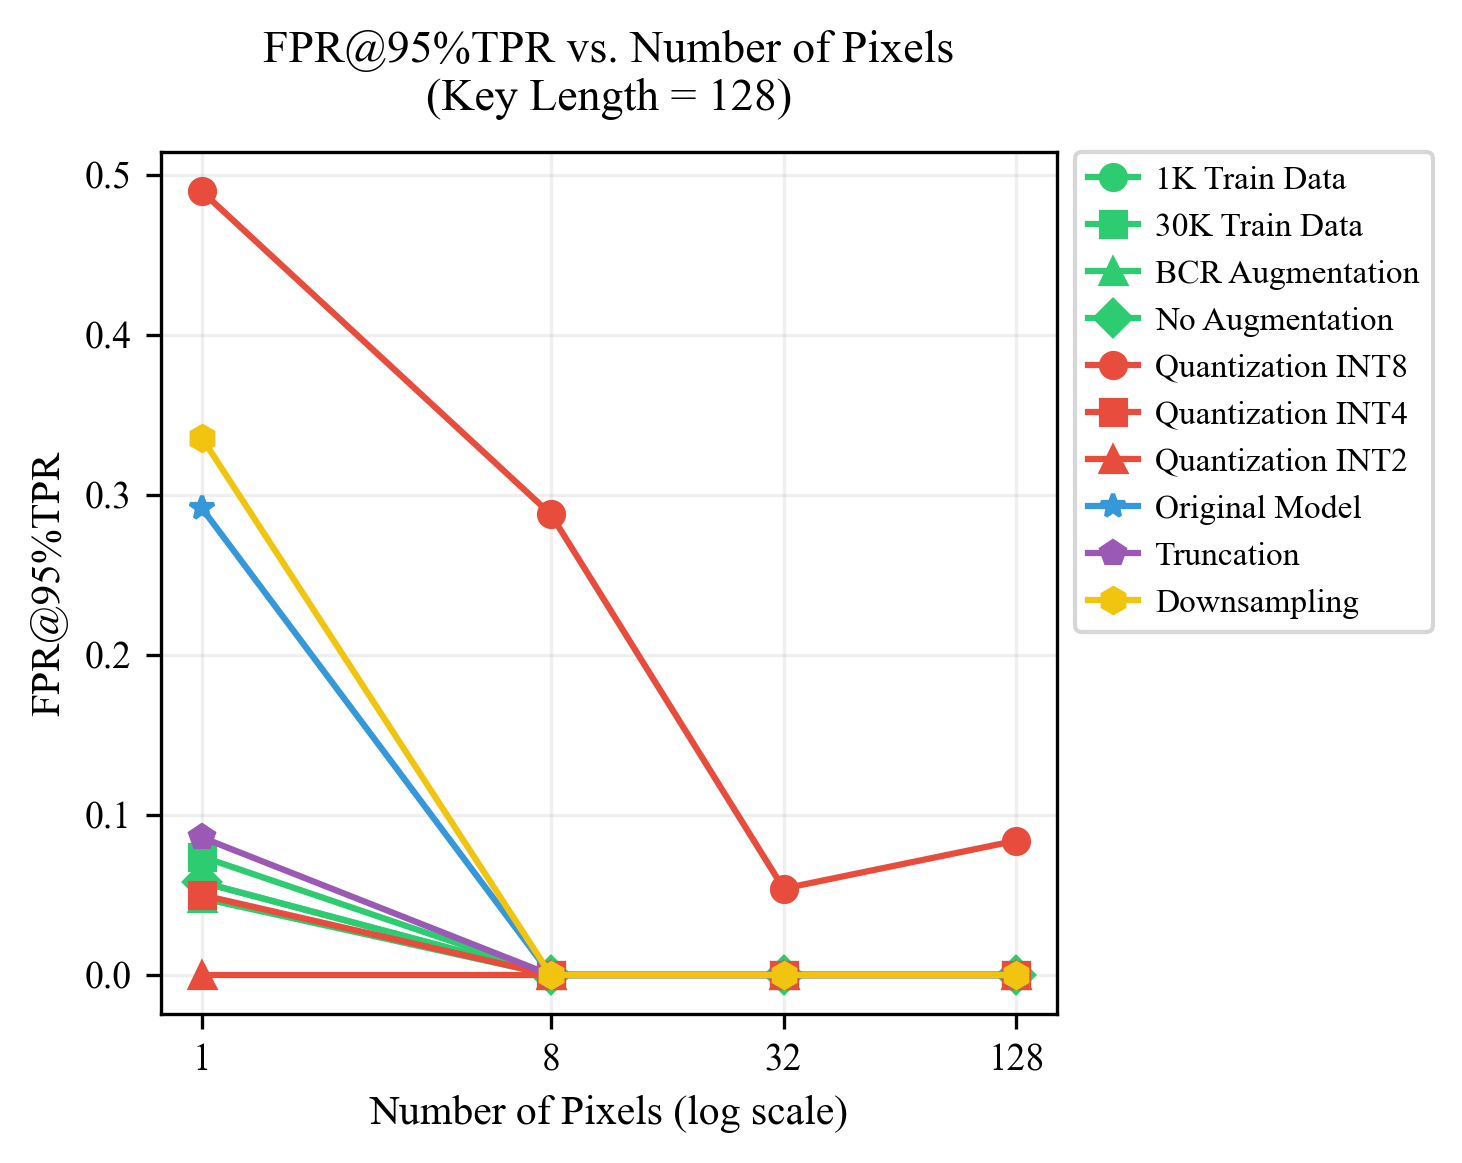
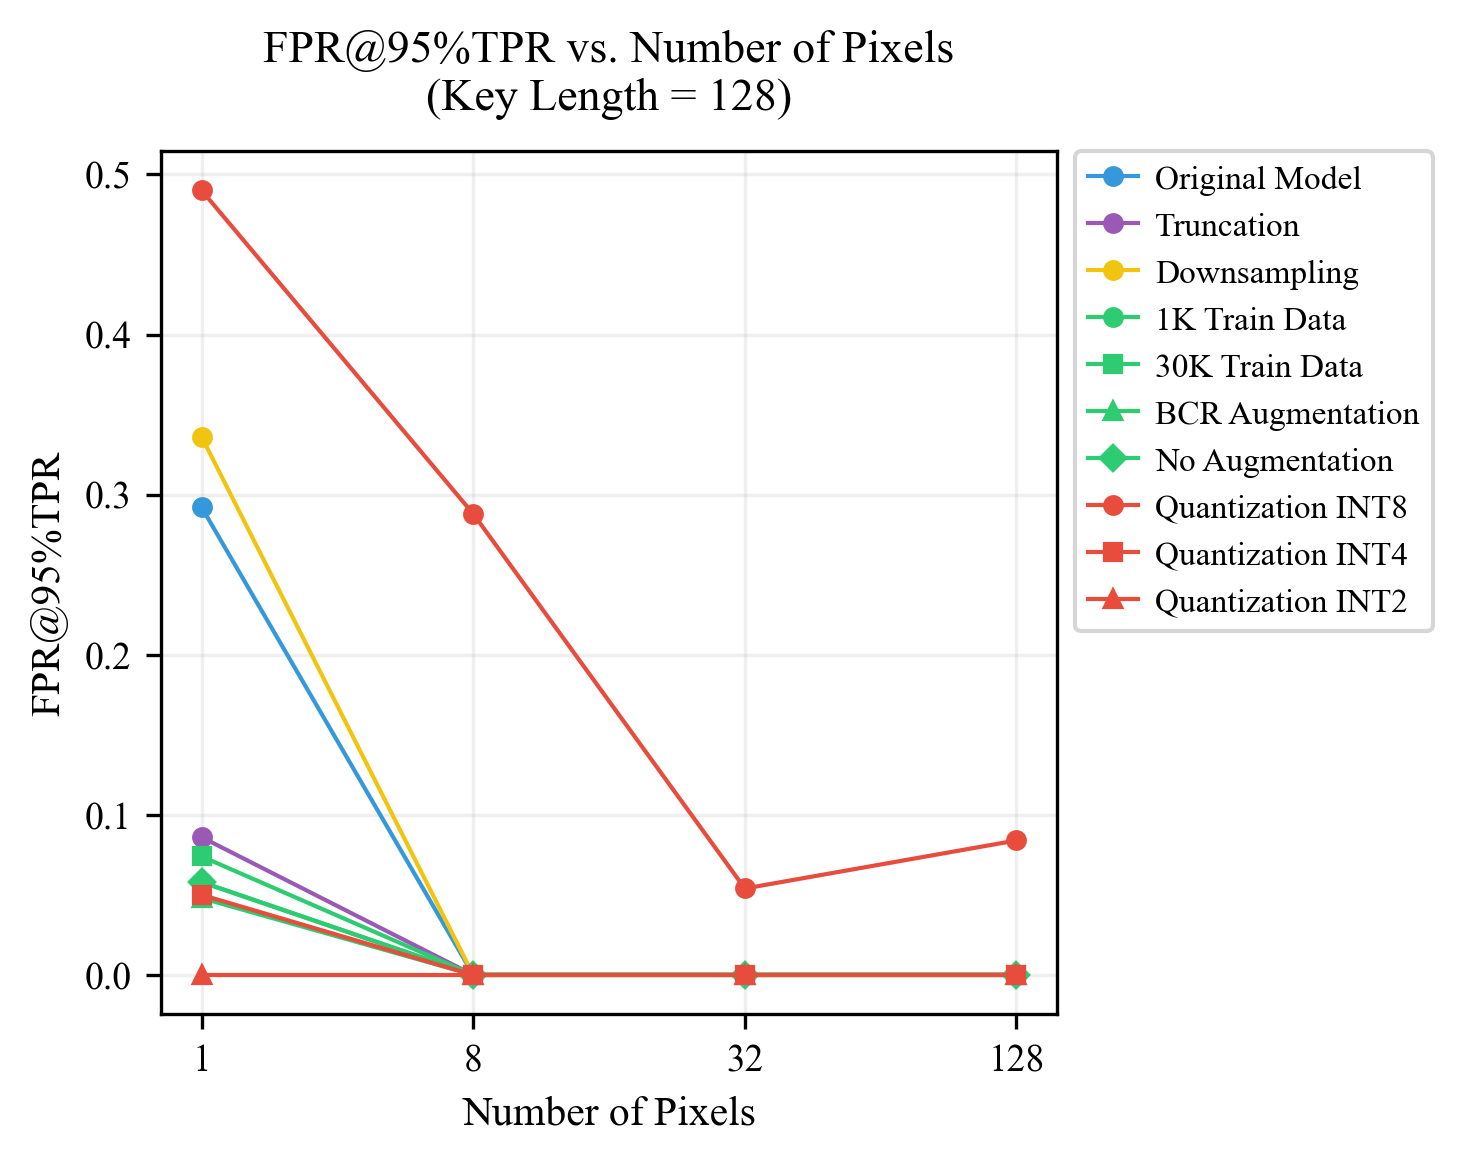
mod

diff --git a/plot_fpr_tpr.py b/plot_fpr_tpr.py
@@ -12,6 +12,7 @@ plt.rcParams['text.usetex'] = False
 
 # Data
 pixel_numbers = [1, 8, 32, 128]
+x_positions = np.arange(len(pixel_numbers))  # Create evenly spaced positions
 
 # Group cases by category
 training_cases = ['1K Train Data', '30K Train Data', 'BCR Augmentation', 'No Augmentation']
@@ -21,7 +22,7 @@ other_cases = ['Original Model', 'Truncation', 'Downsampling']
 # Define markers for each group
 training_markers = ['o', 's', '^', 'D']  # circle, square, triangle, diamond
 quantization_markers = ['o', 's', '^']    # circle, square, triangle
-other_markers = ['*', 'p', 'h']           # star, pentagon, hexagon
+other_markers = ['o', 'o', 'o']           # all circles for other cases
 
 # FPR@95%TPR values for each case (in order of pixel_numbers)
 values = {
@@ -45,30 +46,29 @@ training_color = '#2ecc71'    # green
 quantization_color = '#e74c3c' # red
 other_colors = ['#3498db', '#9b59b6', '#f1c40f']  # blue, purple, yellow
 
+# Plot other cases first (to appear at top of legend)
+for case, marker, color in zip(other_cases, other_markers, other_colors):
+    plt.plot(x_positions, values[case], marker=marker, linewidth=1.0, 
+             markersize=4, label=case, color=color, markerfacecolor=color)
+
 # Plot training cases
 for case, marker in zip(training_cases, training_markers):
-    plt.plot(pixel_numbers, values[case], marker=marker, linewidth=1.5, 
-             markersize=6, label=case, color=training_color, markerfacecolor=training_color)
+    plt.plot(x_positions, values[case], marker=marker, linewidth=1.0, 
+             markersize=4, label=case, color=training_color, markerfacecolor=training_color)
 
 # Plot quantization cases
 for case, marker in zip(quantization_cases, quantization_markers):
-    plt.plot(pixel_numbers, values[case], marker=marker, linewidth=1.5, 
-             markersize=6, label=case, color=quantization_color, markerfacecolor=quantization_color)
-
-# Plot other cases
-for case, marker, color in zip(other_cases, other_markers, other_colors):
-    plt.plot(pixel_numbers, values[case], marker=marker, linewidth=1.5, 
-             markersize=6, label=case, color=color, markerfacecolor=color)
+    plt.plot(x_positions, values[case], marker=marker, linewidth=1.0, 
+             markersize=4, label=case, color=quantization_color, markerfacecolor=quantization_color)
 
 # Customize the plot
-plt.xscale('log', base=2)  # Use log scale for x-axis
 plt.grid(True, which="both", ls="-", alpha=0.2)
-plt.xlabel('Number of Pixels (log scale)', fontsize=10)
+plt.xlabel('Number of Pixels', fontsize=10)
 plt.ylabel('FPR@95%TPR', fontsize=10)
 plt.title('FPR@95%TPR vs. Number of Pixels\n(Key Length = 128)', fontsize=11, pad=10)
 
 # Customize ticks
-plt.xticks(pixel_numbers, labels=pixel_numbers, fontsize=9)
+plt.xticks(x_positions, labels=pixel_numbers, fontsize=9)
 plt.yticks(fontsize=9)
 
 # Add legend inside the plot with smaller font
